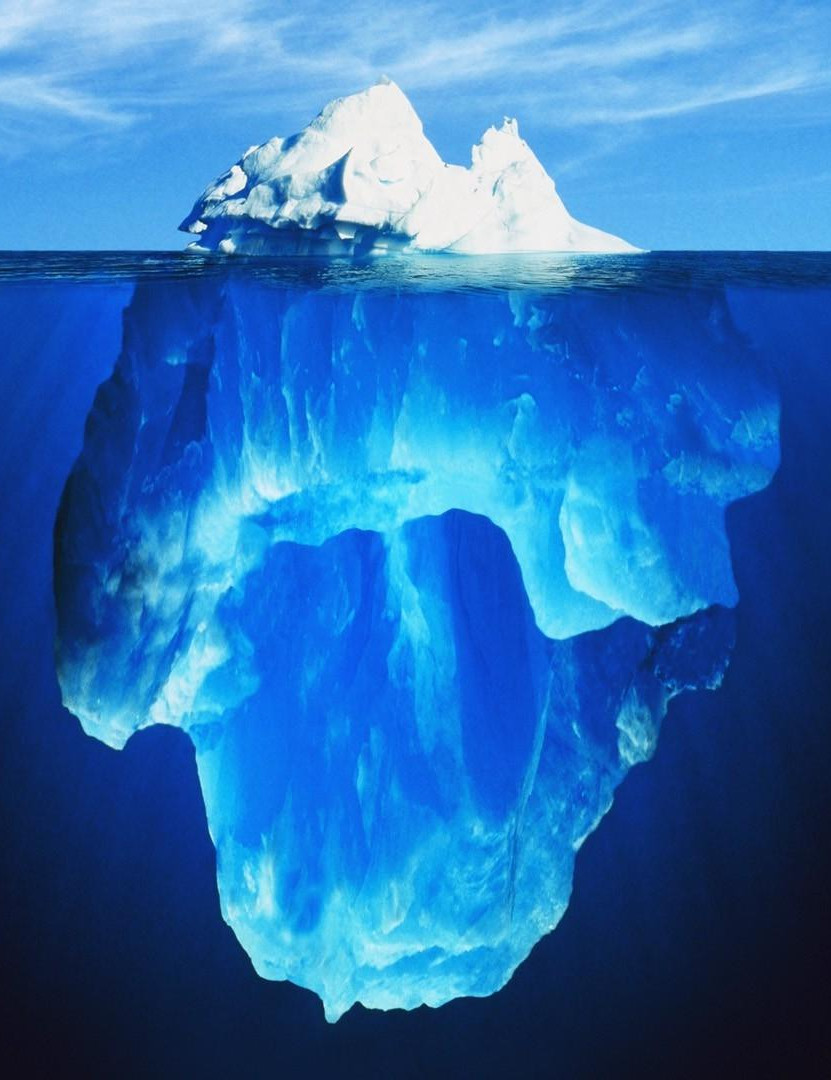
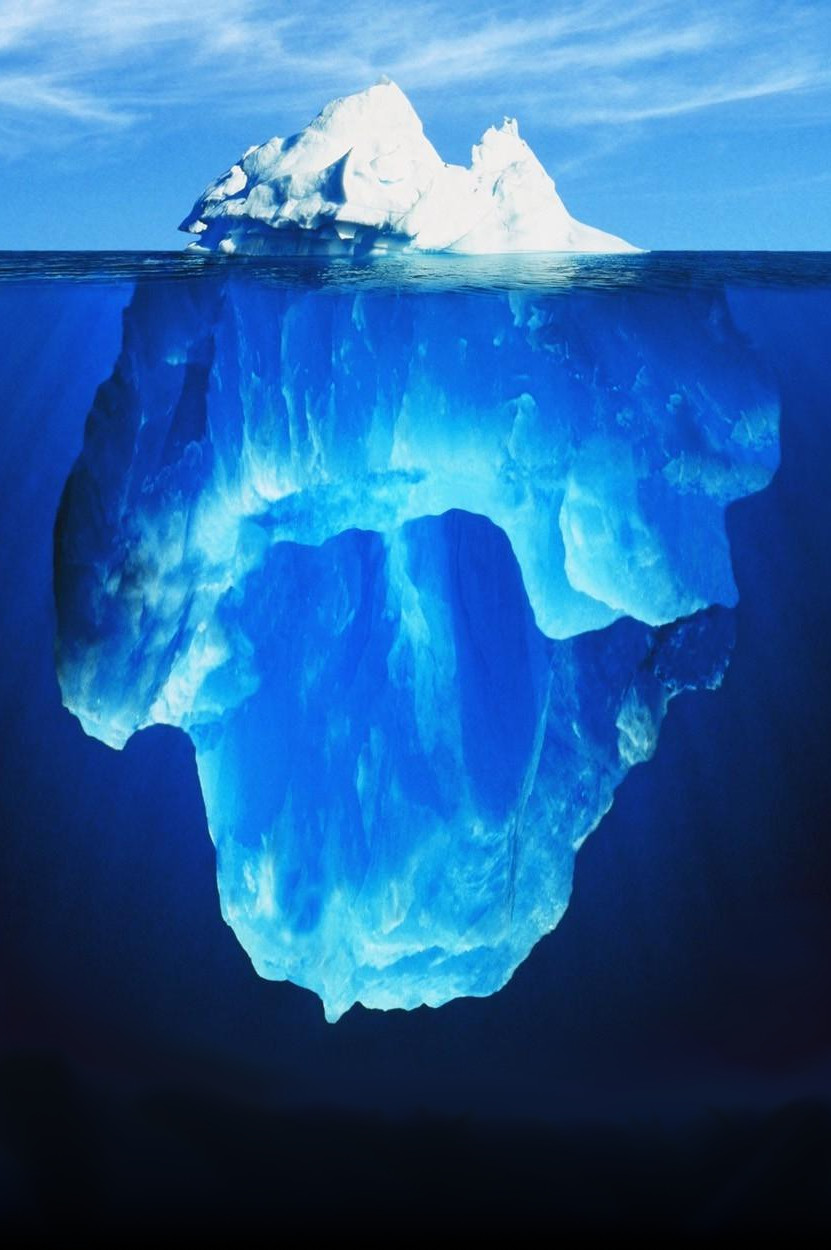
add some links

diff --git a/index.html b/index.html
@@ -19,7 +19,7 @@
             font-family: DejaVuSansMono, "DejaVu Sans Mono", courier, monospace !important;
             background: url("./iceberg.jpg") no-repeat;
             width: 831px;
-            height: 1080px;
+            height: 1250px;
             width: 831px;
             margin: 0 auto;
             margin-bottom: 5rem;
@@ -48,10 +48,10 @@
 
         li {
             display: inline-block;
-            margin-left: 2.2rem;
-            margin-right: 2.2rem;
-            margin-top: .75rem;
-            margin-bottom: .75rem;
+            margin-left: 2.0rem;
+            margin-right: 2.0rem;
+            margin-top: 1.0rem;
+            margin-bottom: 1.0rem;
             line-height: 1.5rem;
             text-shadow: 1px 1px 2px black, 1px -1px 2px black, -1px -1px 2px black, -1px 1px 2px black, 1px 1px 2px black, 2px 2px 4px black;
         }
@@ -68,46 +68,58 @@
             text-decoration: none;
         }
 
-        li:nth-child(5n+0) {
-            transform: translateY(7px);
+        li:nth-child(7n+0) {
+            transform: translateY(10px);
         }
 
-        li:nth-child(5n+1) {
-            transform: translateY(-3px);
+        li:nth-child(7n+1) {
+            transform: translateY(-6px);
         }
 
-        li:nth-child(5n+2) {
+        li:nth-child(7n+2) {
             transform: translateY(0px);
         }
 
-        li:nth-child(5n+3) {
-            transform: translateY(9px);
+        li:nth-child(7n+3) {
+            transform: translateY(15px);
         }
 
-        li:nth-child(5n+4) {
+        li:nth-child(7n+4) {
+            transform: translateY(6px);
+        }
+
+        li:nth-child(7n+5) {
+            transform: translateY(-10px);
+        }
+
+        li:nth-child(7n+6) {
             transform: translateY(4px);
         }
 
         #iceberg section:nth-child(1) {
             padding-top: 1rem;
-            height: 253px;
+            height: 265px;
         }
 
         #iceberg section:nth-child(2) {
-            height: 210px;
+            height: 250px;
         }
 
         #iceberg section:nth-child(3) {
-            height: 180px;
+            height: 140px;
         }
 
         #iceberg section:nth-child(4) {
-            height: 210px;
+            height: 205px;
         }
 
         #iceberg section:nth-child(5) {
+            height: 260px;
+        }
+
+        #iceberg section:nth-child(6) {
             height: 200px;
-            padding-bottom: 1rem;
+            padding-bottom: 4rem;
         }
     </style>
 </head>
@@ -126,13 +138,13 @@
                 <li><a href="https://gist.github.com/aras-p/6224951">#define private public</a></li>
                 <li><a href="https://stackoverflow.com/a/1759575">inline does not mean inline</a></li>
                 <li><a href="https://en.wikipedia.org/wiki/Most_vexing_parse">most vexing parse</a></li>
-                <li><a href="https://stackoverflow.com/questions/4300696/what-is-the-iosfwd-header">&ltiosfwd&gt</a></li>
                 <li><a href="https://stackoverflow.com/questions/1201593/where-is-c-not-a-subset-of-c">C++ is not a<br>superset of C</a></li>
-                <li><a href="https://stackoverflow.com/questions/3618760/c-protected-abstract-virtual-base-pure-virtual-private-destructor">protected abstract virtual base pure<br>virtual private destructor</a></li>
+                <li><a href="https://stackoverflow.com/questions/4300696/what-is-the-iosfwd-header">&ltiosfwd&gt</a></li>
                 <li><a href="https://devblogs.microsoft.com/cppblog/simplify-your-code-with-rocket-science-c20s-spaceship-operator/">spaceship operator</a></li>
-                <li><a href="https://stackoverflow.com/questions/1642028/what-is-the-operator-in-c-c">--> operator</a></li>
+                <li><a href="https://godbolt.org/z/fWGW5aY1e">else if<br>is a lie</a></li>
                 <li><a href="https://en.cppreference.com/w/cpp/language/operator_alternative">digraphs</a></li>
-                <li><a href="https://godbolt.org/z/fWGW5aY1e">else if is a lie</a></li>
+                <li><a href="https://stackoverflow.com/questions/1642028/what-is-the-operator-in-c-c">--> operator</a></li>
+                <li><a href="https://stackoverflow.com/questions/3618760/c-protected-abstract-virtual-base-pure-virtual-private-destructor">protected abstract virtual base pure<br>virtual private destructor</a></li>
             </ul>
         </section>
 
@@ -142,10 +154,10 @@
                 <li><a href="https://stackoverflow.com/q/8026694">unary minus with unsigned operand</a></li>
                 <li><a href="http://www.eelis.net/C++/analogliterals.xhtml">analog integer literals</a></li>
                 <li><a href="https://rtraba.files.wordpress.com/2015/05/cppturing.pdf">templates turing completeness<br>was an accident</a></li>
-                <li><a href="https://github.com/yrnkrn/zapcc">zapcc compiler</a></li>
+                <li><a href="https://yosefk.com/c++fqa/">C++ fqa lite</a></li>
                 <li><a href="https://en.cppreference.com/w/cpp/utility/move">std::move does not move</a></li>
                 <li><a href="https://stackoverflow.com/a/6456967">std::remove does not remove</a></li>
-                <li><a href="https://www.youtube.com/watch?v=kPR8h4-qZdk">the strange details of std::string</a></li>
+                <li><a href="https://www.youtube.com/watch?v=kPR8h4-qZdk">the strange details<br>of std::string</a></li>
                 <li><a href="https://stackoverflow.com/questions/2753060/who-architected-designed-cs-iostreams-and-would-it-still-be-considered-wel">iostream was a mistake</a></li>
             </ul>
         </section>
@@ -164,23 +176,36 @@
         <section alt="Bottom of the Iceberg">
             <ul>
                 <li><a href="https://www.youtube.com/watch?v=4pKtPWcl1Go">constexpr does not mean what<br>you think it means</a></li>
+                <li><a href="https://github.com/fouronnes/cppiceberg/issues/2">implicit char* to bool& conversion</a></li>
                 <li><a href="https://cppinsights.io/s/96a2d477">const std::string bitand</a></li>
-                <li><a href="https://bartoszmilewski.com/2009/10/21/what-does-haskell-have-to-do-with-c/">templates are obfuscated haskell</a></li>
-                <li><a href="https://tgceec.tumblr.com/post/74534916370/results-of-the-grand-c-error-explosion?is_related_post=1">the grand error explosion competition</a></li>
+                <li><a href="https://tgceec.tumblr.com/post/74534916370/results-of-the-grand-c-error-explosion?is_related_post=1">the grand error<br>explosion competition</a></li>
                 <li><a href="https://stackoverflow.com/a/5602136">operator,()</a></li>
                 <li><a href="https://open-std.org/JTC1/SC22/WG21/docs/papers/2019/p0709r4.pdf">herbceptions</a></li>
+                <li><a href="https://bartoszmilewski.com/2009/10/21/what-does-haskell-have-to-do-with-c/">templates are obfuscated haskell</a></li>
+            </ul>
+        </section>
+
+        <section alt="The Deep">
+            <ul>
+                <li><a href="https://herbsutter.com/2010/03/13/trip-report-march-2010-iso-c-standards-meeting/">C++0x is a<br>hexadecimal name</a></li>
+                <li><a href="https://stackoverflow.com/questions/9181782/why-are-the-terms-automatic-and-dynamic-preferred-over-the-terms-stack-and?rq=1">heap and stack don't exist</a></li>
+                <li><a href="https://blog.sunfishcode.online/bugs-in-hello-world/">hello world has a bug</a></li>
+                <li><a href="https://blog.regehr.org/archives/161">compilers disprove fermat’s<br>last theorem</a></li>
+                <li><a href="https://www.open-std.org/jtc1/sc22/wg21/docs/papers/2021/p2279r0.html#c0x-concepts">C++0x concepts were rust traits</a></li>
+                <li><a href="https://github.com/yrnkrn/zapcc">zapcc compiler</a></li>
+                <li><a href="https://stackoverflow.com/q/5625600">...... is valid syntax</a></li>
+                <li><a href="https://consteval.ca/2024/07/03/initialization/">i have no constructor<br>and i must initialize</a></li>
+                <li><a href="https://www.open-std.org/jtc1/sc22/wg21/docs/papers/2019/p0798r4.html">std::optional is a monad</a></li>
             </ul>
         </section>
 
         <section alt="The Abyss">
             <ul>
-                <li><a href="https://www.open-std.org/jtc1/sc22/wg21/docs/papers/2019/p0798r4.html">std::optional is a monad</a></li>
-                <li><a href="https://herbsutter.com/2010/03/13/trip-report-march-2010-iso-c-standards-meeting/">C++0x is a hexadecimal name</a></li>
-                <li><a href="https://stackoverflow.com/questions/9181782/why-are-the-terms-automatic-and-dynamic-preferred-over-the-terms-stack-and?rq=1">heap and stack don't exist</a></li>
-                <li><a href="https://blog.sunfishcode.online/bugs-in-hello-world/">hello world has a bug</a></li>
-                <li><a href="https://blog.regehr.org/archives/161">C++ disproves fermat’s<br>last theorem</a></li>
-                <li><a href="https://www.open-std.org/jtc1/sc22/wg21/docs/papers/2021/p2279r0.html#c0x-concepts">C++0x concepts were rust traits</a></li>
-                <li><a href="https://godbolt.org/">godbolt is a real person</a></li>
+                <li><a href="https://jadlevesque.github.io/PPMP-Iceberg/">the preprocessor<br>iceberg</a></li>
+                <li><a href="https://www.open-std.org/jtc1/sc22/wg21/docs/cwg_active.html">C++ active issues</a></li>
+                <li><a href="https://www.youtube.com/watch?v=By7b19YIv8Q">break abi to save C++</a></li>
+                <li><a href="https://www.open-std.org/jtc1/sc22/wg21/docs/papers/2015/p0172r0.html">abominable<br>function types</a></li>
+                <li><a href="https://xania.org/201609/how-compiler-explorer-runs-on-amazon">godbolt is a real person</a></li>
             </ul>
         </section>
 
